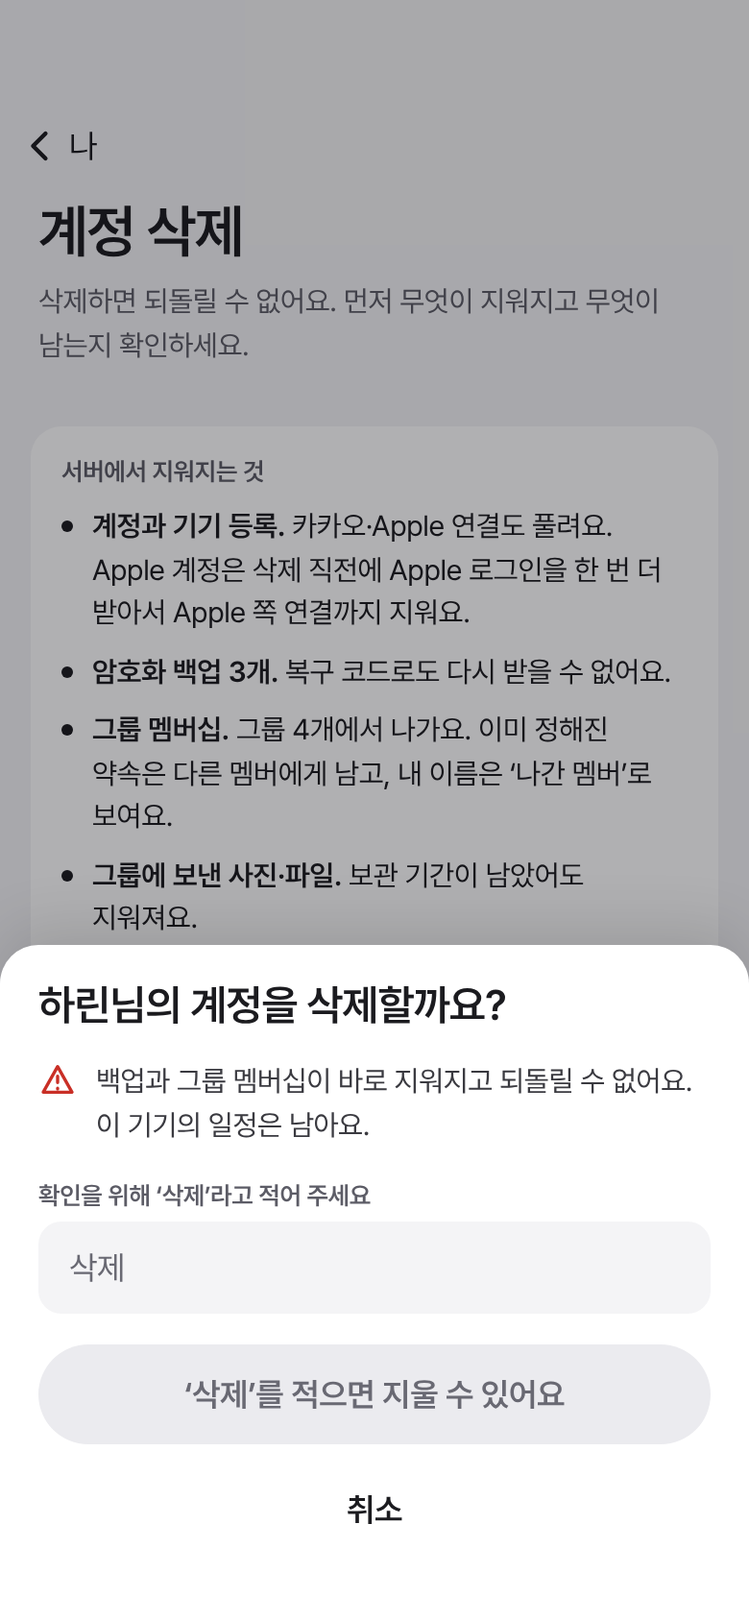
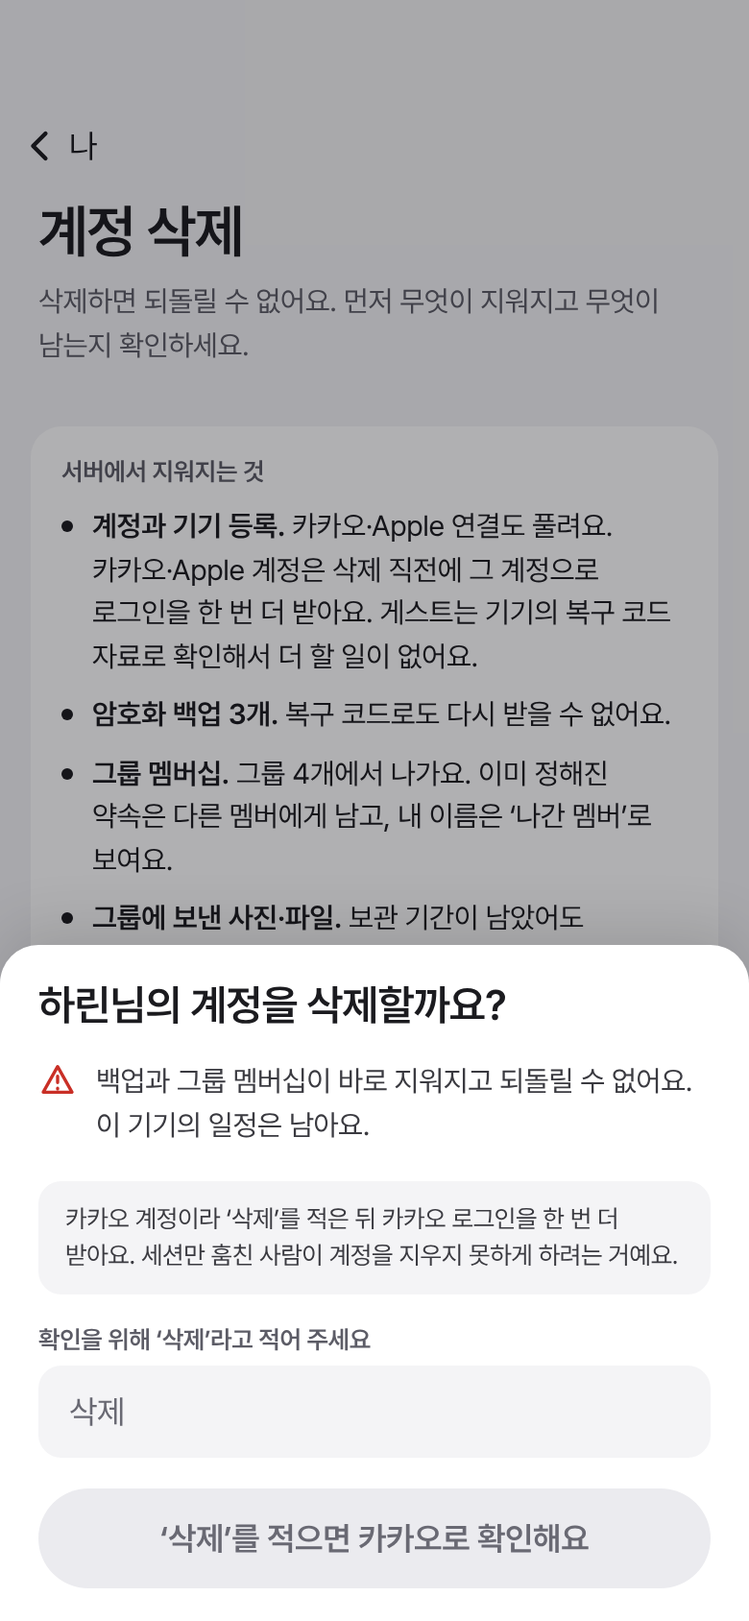
docs(design): prove Kakao accounts again before deletion too
The contract now asks every account to prove itself right before DELETE /me:
Kakao and Apple accounts sign in once more after typing 삭제, guests are
signed silently with the recovery key, and a failed or mismatched proof
(403 reauth_required) returns to the sheet to retry.

Claude-Session: https://claude.ai/code/session_01NfNQYytRc1WA56NULSw6PM

diff --git a/docs/design/boards/DeleteAccount.dc.html b/docs/design/boards/DeleteAccount.dc.html
@@ -18,21 +18,28 @@ input::placeholder{color:#696973}
 </style>
 </helmet>
 <div style="width: 390px; height: 844px; position: relative; overflow: hidden; background: #f4f4f6; color: #1b1b1f; font-family: Pretendard, -apple-system, BlinkMacSystemFont, 'Apple SD Gothic Neo', 'Noto Sans KR', sans-serif; letter-spacing: -0.01em; word-break: keep-all; overflow-wrap: break-word">
-<div style="position: absolute; top: 54px; left: 0; width: 390px; height: 44px; box-sizing: border-box; padding: 0 8px; display: flex; align-items: center; justify-content: space-between"><a href="Me.dc.html" style="height: 44px; padding-right: 8px; display: flex; align-items: center; gap: 2px; font-size: 17px"><svg viewBox="0 0 24 24" width="26" height="26" aria-hidden="true" style="fill: none; stroke: currentColor; stroke-width: 2; stroke-linecap: round; stroke-linejoin: round"><path d="M14.5 6l-6 6 6 6"></path></svg>나</a><span></span></div><div style="position: absolute; top: 102px; left: 20px; width: 350px; display: flex; flex-direction: column; gap: 8px"><h1 style="margin: 0; font-size: 30px; font-weight: 600; letter-spacing: -0.03em">계정 삭제</h1><p style="margin: 0; font-size: 15px; line-height: 1.5; color: #5c5c66">삭제하면 되돌릴 수 없어요. 먼저 무엇이 지워지고 무엇이 남는지 확인하세요.</p></div><div style="position: absolute; top: 222px; left: 16px; width: 358px; display: flex; flex-direction: column; gap: 16px"><div style="padding: 16px; border-radius: 16px; background: #ffffff; display: flex; flex-direction: column; gap: 10px"><span style="font-size: 13px; font-weight: 600; color: #5c5c66">서버에서 지워지는 것</span><ul style="margin: 0; padding: 0; list-style: none; display: flex; flex-direction: column; gap: 8px"><li style="display: flex; gap: 10px; font-size: 15px; line-height: 1.5"><span aria-hidden="true" style="flex: none; width: 6px; height: 6px; margin-top: 8px; border-radius: 3px; background: #1b1b1f"></span><span><b style="font-weight: 600">계정과 기기 등록.</b> 카카오·Apple 연결도 풀려요. Apple 계정은 삭제 직전에 Apple 로그인을 한 번 더 받아서 Apple 쪽 연결까지 지워요.</span></li><li style="display: flex; gap: 10px; font-size: 15px; line-height: 1.5"><span aria-hidden="true" style="flex: none; width: 6px; height: 6px; margin-top: 8px; border-radius: 3px; background: #1b1b1f"></span><span><b style="font-weight: 600">암호화 백업 3개.</b> 복구 코드로도 다시 받을 수 없어요.</span></li><li style="display: flex; gap: 10px; font-size: 15px; line-height: 1.5"><span aria-hidden="true" style="flex: none; width: 6px; height: 6px; margin-top: 8px; border-radius: 3px; background: #1b1b1f"></span><span><b style="font-weight: 600">그룹 멤버십.</b> 그룹 4개에서 나가요. 이미 정해진 약속은 다른 멤버에게 남고, 내 이름은 ‘나간 멤버’로 보여요.</span></li><li style="display: flex; gap: 10px; font-size: 15px; line-height: 1.5"><span aria-hidden="true" style="flex: none; width: 6px; height: 6px; margin-top: 8px; border-radius: 3px; background: #1b1b1f"></span><span><b style="font-weight: 600">그룹에 보낸 사진·파일.</b> 보관 기간이 남았어도 지워져요.</span></li></ul></div><div style="padding: 16px; border-radius: 16px; background: #ffffff; display: flex; flex-direction: column; gap: 10px"><span style="font-size: 13px; font-weight: 600; color: #5c5c66">이 기기에 남는 것</span><ul style="margin: 0; padding: 0; list-style: none; display: flex; flex-direction: column; gap: 8px"><li style="display: flex; gap: 10px; font-size: 15px; line-height: 1.5"><span aria-hidden="true" style="flex: none; width: 6px; height: 6px; margin-top: 8px; border-radius: 3px; background: #1b1b1f"></span><span><b style="font-weight: 600">내 일정과 사람·생일.</b> 앱을 지우기 전까지 그대로 보여요. 그룹 기능 없이 캘린더로 계속 쓸 수 있어요.</span></li><li style="display: flex; gap: 10px; font-size: 15px; line-height: 1.5"><span aria-hidden="true" style="flex: none; width: 6px; height: 6px; margin-top: 8px; border-radius: 3px; background: #1b1b1f"></span><span><b style="font-weight: 600">캘린더 내보내기(ICS).</b> 다른 캘린더 앱으로 옮길 수 있어요.</span></li></ul></div><p style="margin: 0 4px; font-size: 13px; line-height: 1.5; color: #5c5c66">접속 기록은 법이 정한 3개월 동안 보관된 뒤 지워져요. 그날어때 플러스를 쓰고 있다면 App Store·Google Play에서 구독을 따로 해지해야 해요.</p></div><div style="position: absolute; left: 20px; bottom: 34px; width: 350px; display: flex; flex-direction: column; gap: 8px"><button type="button" onClick="{{openConfirm}}" style="height: 52px; border: none; border-radius: 999px; background: #ffffff; color: #c92f26; font-size: 17px; font-weight: 600; cursor: pointer">계정 삭제</button><a href="Me.dc.html" style="height: 44px; display: flex; align-items: center; justify-content: center; font-size: 15px; color: #5c5c66">그냥 둘게요</a></div><sc-if value="{{confirm}}" hint-placeholder-val="{{false}}">
+<div style="position: absolute; top: 54px; left: 0; width: 390px; height: 44px; box-sizing: border-box; padding: 0 8px; display: flex; align-items: center; justify-content: space-between"><a href="Me.dc.html" style="height: 44px; padding-right: 8px; display: flex; align-items: center; gap: 2px; font-size: 17px"><svg viewBox="0 0 24 24" width="26" height="26" aria-hidden="true" style="fill: none; stroke: currentColor; stroke-width: 2; stroke-linecap: round; stroke-linejoin: round"><path d="M14.5 6l-6 6 6 6"></path></svg>나</a><span></span></div><div style="position: absolute; top: 102px; left: 20px; width: 350px; display: flex; flex-direction: column; gap: 8px"><h1 style="margin: 0; font-size: 30px; font-weight: 600; letter-spacing: -0.03em">계정 삭제</h1><p style="margin: 0; font-size: 15px; line-height: 1.5; color: #5c5c66">삭제하면 되돌릴 수 없어요. 먼저 무엇이 지워지고 무엇이 남는지 확인하세요.</p></div><div style="position: absolute; top: 222px; left: 16px; width: 358px; display: flex; flex-direction: column; gap: 16px"><div style="padding: 16px; border-radius: 16px; background: #ffffff; display: flex; flex-direction: column; gap: 10px"><span style="font-size: 13px; font-weight: 600; color: #5c5c66">서버에서 지워지는 것</span><ul style="margin: 0; padding: 0; list-style: none; display: flex; flex-direction: column; gap: 8px"><li style="display: flex; gap: 10px; font-size: 15px; line-height: 1.5"><span aria-hidden="true" style="flex: none; width: 6px; height: 6px; margin-top: 8px; border-radius: 3px; background: #1b1b1f"></span><span><b style="font-weight: 600">계정과 기기 등록.</b> 카카오·Apple 연결도 풀려요. 카카오·Apple 계정은 삭제 직전에 그 계정으로 로그인을 한 번 더 받아요. 게스트는 기기의 복구 코드 자료로 확인해서 더 할 일이 없어요.</span></li><li style="display: flex; gap: 10px; font-size: 15px; line-height: 1.5"><span aria-hidden="true" style="flex: none; width: 6px; height: 6px; margin-top: 8px; border-radius: 3px; background: #1b1b1f"></span><span><b style="font-weight: 600">암호화 백업 3개.</b> 복구 코드로도 다시 받을 수 없어요.</span></li><li style="display: flex; gap: 10px; font-size: 15px; line-height: 1.5"><span aria-hidden="true" style="flex: none; width: 6px; height: 6px; margin-top: 8px; border-radius: 3px; background: #1b1b1f"></span><span><b style="font-weight: 600">그룹 멤버십.</b> 그룹 4개에서 나가요. 이미 정해진 약속은 다른 멤버에게 남고, 내 이름은 ‘나간 멤버’로 보여요.</span></li><li style="display: flex; gap: 10px; font-size: 15px; line-height: 1.5"><span aria-hidden="true" style="flex: none; width: 6px; height: 6px; margin-top: 8px; border-radius: 3px; background: #1b1b1f"></span><span><b style="font-weight: 600">그룹에 보낸 사진·파일.</b> 보관 기간이 남았어도 지워져요.</span></li></ul></div><div style="padding: 16px; border-radius: 16px; background: #ffffff; display: flex; flex-direction: column; gap: 10px"><span style="font-size: 13px; font-weight: 600; color: #5c5c66">이 기기에 남는 것</span><ul style="margin: 0; padding: 0; list-style: none; display: flex; flex-direction: column; gap: 8px"><li style="display: flex; gap: 10px; font-size: 15px; line-height: 1.5"><span aria-hidden="true" style="flex: none; width: 6px; height: 6px; margin-top: 8px; border-radius: 3px; background: #1b1b1f"></span><span><b style="font-weight: 600">내 일정과 사람·생일.</b> 앱을 지우기 전까지 그대로 보여요. 그룹 기능 없이 캘린더로 계속 쓸 수 있어요.</span></li><li style="display: flex; gap: 10px; font-size: 15px; line-height: 1.5"><span aria-hidden="true" style="flex: none; width: 6px; height: 6px; margin-top: 8px; border-radius: 3px; background: #1b1b1f"></span><span><b style="font-weight: 600">캘린더 내보내기(ICS).</b> 다른 캘린더 앱으로 옮길 수 있어요.</span></li></ul></div><p style="margin: 0 4px; font-size: 13px; line-height: 1.5; color: #5c5c66">접속 기록은 법이 정한 3개월 동안 보관된 뒤 지워져요. 그날어때 플러스를 쓰고 있다면 App Store·Google Play에서 구독을 따로 해지해야 해요.</p></div><div style="position: absolute; left: 20px; bottom: 34px; width: 350px; display: flex; flex-direction: column; gap: 8px"><button type="button" onClick="{{openConfirm}}" style="height: 52px; border: none; border-radius: 999px; background: #ffffff; color: #c92f26; font-size: 17px; font-weight: 600; cursor: pointer">계정 삭제</button><a href="Me.dc.html" style="height: 44px; display: flex; align-items: center; justify-content: center; font-size: 15px; color: #5c5c66">그냥 둘게요</a></div><sc-if value="{{confirm}}" hint-placeholder-val="{{false}}">
 <div style="position: absolute; inset: 0">
 <button type="button" aria-label="닫기" onClick="{{closeConfirm}}" style="position: absolute; inset: 0; width: 100%; height: 100%; padding: 0; border: none; background: rgba(10,10,14,0.32); cursor: pointer"></button>
-<section role="dialog" aria-modal="true" aria-label="계정 삭제 확인" style="position: absolute; left: 0; top: 492px; width: 390px; height: 352px; box-sizing: border-box; padding: 8px 20px 34px; background: #ffffff; border-radius: 20px 20px 0 0; box-shadow: 0 -8px 32px rgba(0,0,0,0.12); display: flex; flex-direction: column; gap: 16px"><div aria-hidden="true" style="align-self: center; width: 36px; height: 5px; border-radius: 3px; background: #d1d1d6"></div><h2 style="margin: -6px 0 0; font-size: 22px; font-weight: 600; letter-spacing: -0.02em">하린님의 계정을 삭제할까요?</h2><p style="margin: 0; display: flex; gap: 10px; font-size: 15px; line-height: 1.55; color: #3a3a40"><svg viewBox="0 0 24 24" width="20" height="20" aria-hidden="true" style="flex: none; color: #c92f26; fill: none; stroke: currentColor; stroke-width: 2; stroke-linecap: round; stroke-linejoin: round"><path d="M12 4l9 16H3z"></path><path d="M12 10v4M12 17.5v.5"></path></svg><span>백업과 그룹 멤버십이 바로 지워지고 되돌릴 수 없어요. 이 기기의 일정은 남아요.</span></p><sc-if value="{{apple}}" hint-placeholder-val="{{false}}"><p style="margin: 0; padding: 10px 14px; border-radius: 12px; background: #f4f4f6; font-size: 13px; line-height: 1.5; color: #3a3a40">Apple 계정이라 ‘삭제’를 적은 뒤 Apple 로그인을 한 번 더 받아요. 그래야 Apple에 남은 연결을 지울 수 있어요.</p></sc-if><label style="display: flex; flex-direction: column; gap: 6px"><span style="font-size: 13px; font-weight: 600; color: #5c5c66">확인을 위해 ‘삭제’라고 적어 주세요</span><input type="text" placeholder="삭제" style="height: 48px; box-sizing: border-box; padding: 0 16px; border: none; border-radius: 12px; background: #f4f4f6; font-size: 17px; outline: none"></label><div style="margin-top: auto; display: flex; flex-direction: column; gap: 8px"><button type="button" disabled="{{true}}" style="height: 52px; border: none; border-radius: 999px; background: #ebebef; color: #696973; font-size: 17px; font-weight: 600">{{deleteLabel}}</button><button type="button" onClick="{{closeConfirm}}" style="height: 52px; border: none; border-radius: 999px; background: none; font-size: 17px; font-weight: 600; cursor: pointer">취소</button></div></section></div></sc-if>
+<section role="dialog" aria-modal="true" aria-label="계정 삭제 확인" style="position: absolute; left: 0; top: 492px; width: 390px; height: 352px; box-sizing: border-box; padding: 8px 20px 34px; background: #ffffff; border-radius: 20px 20px 0 0; box-shadow: 0 -8px 32px rgba(0,0,0,0.12); display: flex; flex-direction: column; gap: 16px"><div aria-hidden="true" style="align-self: center; width: 36px; height: 5px; border-radius: 3px; background: #d1d1d6"></div><h2 style="margin: -6px 0 0; font-size: 22px; font-weight: 600; letter-spacing: -0.02em">하린님의 계정을 삭제할까요?</h2><p style="margin: 0; display: flex; gap: 10px; font-size: 15px; line-height: 1.55; color: #3a3a40"><svg viewBox="0 0 24 24" width="20" height="20" aria-hidden="true" style="flex: none; color: #c92f26; fill: none; stroke: currentColor; stroke-width: 2; stroke-linecap: round; stroke-linejoin: round"><path d="M12 4l9 16H3z"></path><path d="M12 10v4M12 17.5v.5"></path></svg><span>백업과 그룹 멤버십이 바로 지워지고 되돌릴 수 없어요. 이 기기의 일정은 남아요.</span></p><sc-if value="{{provider}}" hint-placeholder-val="{{true}}"><p style="margin: 0; padding: 10px 14px; border-radius: 12px; background: {{noteBg}}; font-size: 13px; line-height: 1.5; color: {{noteFg}}">{{note}}</p></sc-if><label style="display: flex; flex-direction: column; gap: 6px"><span style="font-size: 13px; font-weight: 600; color: #5c5c66">확인을 위해 ‘삭제’라고 적어 주세요</span><input type="text" placeholder="삭제" style="height: 48px; box-sizing: border-box; padding: 0 16px; border: none; border-radius: 12px; background: #f4f4f6; font-size: 17px; outline: none"></label><div style="margin-top: auto; display: flex; flex-direction: column; gap: 8px"><button type="button" disabled="{{true}}" style="height: 52px; border: none; border-radius: 999px; background: #ebebef; color: #696973; font-size: 17px; font-weight: 600">{{deleteLabel}}</button><button type="button" onClick="{{closeConfirm}}" style="height: 52px; border: none; border-radius: 999px; background: none; font-size: 17px; font-weight: 600; cursor: pointer">취소</button></div></section></div></sc-if>
 </div>
 </x-dc>
-<script type="text/x-dc" data-dc-script data-props='{"account":{"editor":"enum","options":["카카오","Apple","게스트"],"default":"카카오"},"$preview":{"width":390,"height":844}}'>
+<script type="text/x-dc" data-dc-script data-props='{"account":{"editor":"enum","options":["카카오","Apple","게스트"],"default":"카카오"},"error":{"editor":"enum","options":["없음","다른 계정"],"default":"없음"},"$preview":{"width":390,"height":844}}'>
 class Component extends DCLogic {
   constructor(props) {
     super(props);
     this.state = { confirm: false };
   }
   renderVals() {
-    const apple = (this.props.account ?? '카카오') === 'Apple';
-    return { confirm: this.state.confirm, apple, deleteLabel: apple ? '‘삭제’를 적으면 Apple로 확인해요' : '‘삭제’를 적으면 지울 수 있어요',
+    // Kakao and Apple accounts prove themselves again right before deletion; guests sign with the recovery key silently.
+    const account = this.props.account ?? '카카오';
+    const provider = account !== '게스트';
+    const failed = (this.props.error ?? '없음') === '다른 계정';
+    const note = failed ? '이 계정에 연결된 ' + account + ' 계정으로 다시 확인해 주세요. 다른 계정으로 로그인하면 지울 수 없어요.'
+      : account + ' 계정이라 ‘삭제’를 적은 뒤 ' + account + ' 로그인을 한 번 더 받아요. 세션만 훔친 사람이 계정을 지우지 못하게 하려는 거예요.';
+    return { confirm: this.state.confirm || failed, provider, note,
+      noteBg: failed ? '#fbeceb' : '#f4f4f6', noteFg: failed ? '#3a3a40' : '#3a3a40',
+      deleteLabel: failed ? account + '로 다시 확인' : provider ? '‘삭제’를 적으면 ' + account + '로 확인해요' : '‘삭제’를 적으면 지울 수 있어요',
       openConfirm: () => this.setState({ confirm: true }), closeConfirm: () => this.setState({ confirm: false }) };
   }
 }

diff --git a/docs/design/m1.md b/docs/design/m1.md
@@ -353,9 +353,10 @@ flowchart TD
 | 항목 | 내용 |
 | --- | --- |
 | 구성 | 제목 + 설명(되돌릴 수 없음) → 카드 "서버에서 지워지는 것"(4항목: 계정·기기, 백업 3개, 그룹 멤버십, 보낸 사진·파일) → 카드 "이 기기에 남는 것"(내 일정과 사람, ICS 내보내기) → 안내(접속 기록 3개월, 플러스 구독은 스토어에서 해지) → 빨간 글자 버튼 "계정 삭제" → 글자 버튼 "그냥 둘게요" |
-| 동작 | 계정 삭제 → 시트 "하린님의 계정을 삭제할까요?" + 경고 한 줄 + 입력 "'삭제'라고 적어 주세요" → 글자가 맞으면 빨간 글자 버튼 "삭제" 켜짐 → 삭제 뒤 시작 화면, 토스트 "계정을 삭제했어요". **Apple에 연결된 계정**은 시트에 안내 한 줄("Apple 계정이라 '삭제'를 적은 뒤 Apple 로그인을 한 번 더 받아요")이 더 있고, 버튼이 "Apple로 확인하고 삭제"가 되어 Sign in with Apple 창을 거친 뒤 `DELETE /me`에 `apple_authorization_code`를 넣습니다(계약 13장). Apple 창을 취소하면 시트로 돌아오고 아무것도 지우지 않습니다. 카카오·게스트는 바로 삭제합니다 |
+| 동작 | 계정 삭제 → 시트 "하린님의 계정을 삭제할까요?" + 경고 한 줄 + 입력 "'삭제'라고 적어 주세요" → 글자가 맞으면 빨간 글자 버튼 "삭제" 켜짐 → 삭제 뒤 시작 화면, 토스트 "계정을 삭제했어요". 되돌릴 수 없는 유일한 동작이라 **계정 종류에 따라 다시 증명**합니다(계약 13장). 카카오·Apple 계정은 시트에 안내 한 줄("카카오 계정이라 '삭제'를 적은 뒤 카카오 로그인을 한 번 더 받아요. 세션만 훔친 사람이 계정을 지우지 못하게 하려는 거예요.")이 더 있고, 버튼이 "카카오로 확인하고 삭제" / "Apple로 확인하고 삭제"가 되어 그 로그인 창을 거친 뒤 `DELETE /me`에 `kakao_id_token`+`nonce` 또는 `apple_authorization_code`를 넣습니다. 로그인 창을 취소하면 시트로 돌아오고 아무것도 지우지 않습니다. 게스트(제공자 연결이 끊긴 계정 포함)는 추가 단계 없이 코어가 복구 서명 키로 서명해 바로 삭제합니다 |
+| 오류 | 403 `reauth_required`(증명이 없거나 다른 카카오·Apple 계정으로 로그인함): 시트의 안내가 빨간 카드 "이 계정에 연결된 카카오 계정으로 다시 확인해 주세요. 다른 계정으로 로그인하면 지울 수 없어요."로 바뀌고 버튼은 "카카오로 다시 확인". 세션은 그대로라 로그인 화면으로 가지 않습니다. 409 `recovery_missing`(복구 자료를 아직 못 올린 게스트): 코어가 먼저 올린 뒤 다시 지우고, 화면에는 "준비하는 중…"만 잠깐 보임 |
 | 상태 | 플러스 구독 중(M4): 안내가 카드로 올라오고 버튼 "구독 관리로" 추가. 오프라인: 버튼 꺼짐 "연결되면 지울 수 있어요" |
-| 코어 | `account.delete(appleAuthorizationCode?)` → 서버 삭제 후 로컬 그룹 상태 제거, 캘린더는 유지. 시안 보드의 `account` 속성(카카오·Apple·게스트)으로 변형을 봅니다 |
+| 코어 | `account.deleteProofKind()` → `guest` / `kakao` / `apple`, `account.delete(proof)` → 서버 삭제 후 로컬 그룹 상태 제거, 캘린더는 유지. 시안 보드의 `account`(카카오·Apple·게스트)와 `error`(다른 계정) 속성으로 변형을 봅니다 |
 
 ### 23. 기기 로그아웃됨
 
@@ -408,7 +409,7 @@ flowchart TD
 9. **로그아웃된 이전 기기는 시트 한 장으로 알리고 캘린더는 계속 쓰게 둡니다.** 로그인 화면으로 쫓아내지 않습니다.
 10. **알파 통계 동의는 권한 화면의 세 번째 카드이고, 나 화면의 스위치로 끕니다.** 기본은 꺼짐이고, 공개 빌드에는 카드도 스위치도 없습니다.
 11. **시안의 복구 코드 예시는 BIP39 한국어 목록의 단어로 바꿨습니다.** 화면과 비교는 NFC입니다.
-12. **Apple 계정의 삭제는 '삭제' 입력 뒤 Sign in with Apple을 한 번 더 거칩니다.** 서버가 Apple 토큰을 보관하지 않기로 해서 그 자리에서 철회용 코드를 받습니다(계약 13장).
+12. **카카오·Apple 계정의 삭제는 '삭제' 입력 뒤 그 계정으로 로그인을 한 번 더 거칩니다.** 세션만 훔친 사람이 지우지 못하게 하려는 것이고, Apple은 그 자리에서 철회용 코드도 받습니다. 게스트는 코어가 복구 서명 키로 조용히 증명합니다. 재인증이 실패하면(403 `reauth_required`) 시트에서 다시 시도합니다(계약 13장).
 13. **다른 계정의 저장소는 합치지 않고 묻습니다(24번).** 선택지는 가져오기와 지우기 둘뿐이고, 나중으로 미룰 수 없습니다.
 14. **알파 통계는 숫자 네 개입니다.** 앱을 연 횟수, 만든 일정 수, 그중 추천으로 만든 수, 비정상 종료 수. 문구에 네 개를 모두 적습니다.
 15. **기기 로그아웃 시트는 `replaced_via`로 두 문구를 씁니다.** 복구 코드로 들어온 경우에는 종이가 노출됐을 수 있다고 말하고 카카오·Apple 연결을 권합니다.

diff --git a/docs/design/screens.md b/docs/design/screens.md
@@ -79,12 +79,12 @@
 | 돌아왔어요 | 복구 코드가 없을 때 | 계정 삭제 | 삭제 확인 |
 | --- | --- | --- | --- |
 | <img src="screens/m1/21-restore--done@2x.png" width="200" alt="복원 완료"> | <img src="screens/m1/21-restore--no-code@2x.png" width="200" alt="복구 코드 없음"> | <img src="screens/m1/22-delete-account@2x.png" width="200" alt="계정 삭제"> | <img src="screens/m1/22-delete-account--confirm@2x.png" width="200" alt="계정 삭제 확인"> |
-| 가져온 수와 이전 기기 로그아웃, 그룹 재참여 안내. | 되찾을 수 없음을 설명하고 새로 시작을 빨간 글자로. | 서버에서 지워지는 것과 이 기기에 남는 것을 먼저 보여 줍니다. | 되돌릴 수 없는 유일한 동작이라 '삭제'를 적게 합니다. |
+| 가져온 수와 이전 기기 로그아웃, 그룹 재참여 안내. | 되찾을 수 없음을 설명하고 새로 시작을 빨간 글자로. | 서버에서 지워지는 것과 이 기기에 남는 것을 먼저 보여 줍니다. | 되돌릴 수 없는 유일한 동작이라 '삭제'를 적고, 카카오·Apple 계정은 그 로그인을 한 번 더 거칩니다. |
 
-| 기기 로그아웃됨 | 복구 코드로 들어왔을 때 | 다른 계정의 일정이 남았을 때 | 계정 삭제 · Apple 계정 |
+| 기기 로그아웃됨 | 복구 코드로 들어왔을 때 | 다른 계정의 일정이 남았을 때 | 계정 삭제 · 재인증 실패 |
 | --- | --- | --- | --- |
-| <img src="screens/m1/23-revoked@2x.png" width="200" alt="기기 로그아웃됨"> | <img src="screens/m1/23-revoked--recovery@2x.png" width="200" alt="복구 코드로 들어옴"> | <img src="screens/m1/24-keep-local@2x.png" width="200" alt="다른 계정의 일정"> | <img src="screens/m1/22-delete-account--apple@2x.png" width="200" alt="Apple 계정 삭제 확인"> |
-| 다른 기기에서 로그인한 뒤 이전 기기가 받는 시트. 남는 것과 지워지는 것을 나란히 보여 주고, 캘린더는 계속 쓰게 둡니다. | `replaced_via`가 복구 코드면 종이가 노출됐을 수 있다고 말하고 카카오·Apple 연결을 권합니다. | 로그인·복원 뒤 저장소가 다른 계정의 것이면 가져오기와 지우기 중 하나를 고릅니다. | Apple 계정은 '삭제'를 적은 뒤 Apple 로그인을 한 번 더 거칩니다. |
+| <img src="screens/m1/23-revoked@2x.png" width="200" alt="기기 로그아웃됨"> | <img src="screens/m1/23-revoked--recovery@2x.png" width="200" alt="복구 코드로 들어옴"> | <img src="screens/m1/24-keep-local@2x.png" width="200" alt="다른 계정의 일정"> | <img src="screens/m1/22-delete-account--reauth-failed@2x.png" width="200" alt="삭제 재인증 실패"> |
+| 다른 기기에서 로그인한 뒤 이전 기기가 받는 시트. 남는 것과 지워지는 것을 나란히 보여 주고, 캘린더는 계속 쓰게 둡니다. | `replaced_via`가 복구 코드면 종이가 노출됐을 수 있다고 말하고 카카오·Apple 연결을 권합니다. | 로그인·복원 뒤 저장소가 다른 계정의 것이면 가져오기와 지우기 중 하나를 고릅니다. | 다른 카카오·Apple 계정으로 로그인하면 403 `reauth_required`. 시트에서 바로 다시 확인합니다. 게스트는 [추가 단계 없이](screens/m1/22-delete-account--guest@2x.png) 지웁니다. |
 
 ## M2 그룹·날짜 잡기
 

diff --git a/docs/design/tone.md b/docs/design/tone.md
@@ -112,7 +112,8 @@
 | 다른 기기에서 로그인함(카카오·Apple) | 다른 기기에서 로그인했어요. 캘린더는 그대로 쓸 수 있어요. 내가 한 로그인이 아니라면 카카오·Apple 계정이 다른 사람에게 알려졌을 수 있어요. 그 계정의 비밀번호를 바꿔 주세요. |
 | 다른 기기에서 들어옴(복구 코드) | 복구 코드로 다른 기기에서 들어왔어요. 내가 한 게 아니라면 복구 코드를 적은 종이를 누가 봤을 수 있어요. 다시 로그인한 뒤 카카오·Apple 계정을 연결해 두세요. |
 | 다른 계정의 일정이 남음 | 이 기기에 다른 계정의 일정이 남아 있어요. 내 계정으로 가져오기 · 지우고 시작하기 |
-| Apple 계정 삭제 | Apple 계정이라 ‘삭제’를 적은 뒤 Apple 로그인을 한 번 더 받아요. · Apple로 확인하고 삭제 |
+| 카카오·Apple 계정 삭제 | 카카오 계정이라 ‘삭제’를 적은 뒤 카카오 로그인을 한 번 더 받아요. 세션만 훔친 사람이 계정을 지우지 못하게 하려는 거예요. · 카카오로 확인하고 삭제 |
+| 삭제 재인증 실패 | 이 계정에 연결된 카카오 계정으로 다시 확인해 주세요. 다른 계정으로 로그인하면 지울 수 없어요. · 카카오로 다시 확인 |
 
 버튼은 상태를 그대로 적습니다: "단어 5개 더", "8번째 단어를 고쳐 주세요", "코드를 다시 확인해 주세요", "다시 시도", "계정 찾기", "백업 가져오기".
 
